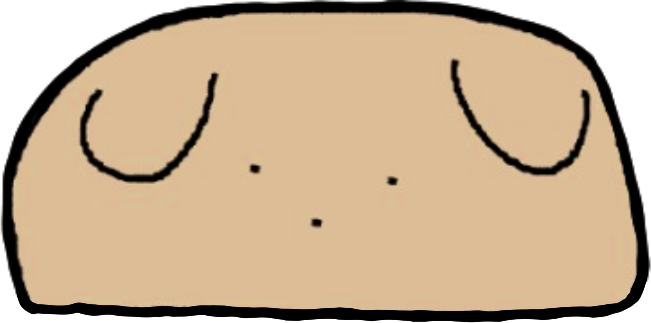
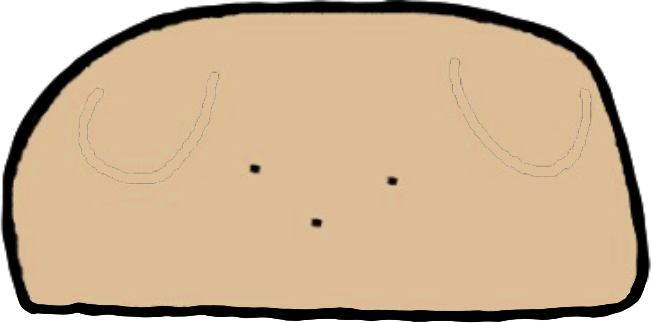
update v1786915887

Changed region(s): [[0.6759, 0.1858, 0.9217, 0.5573], [0.1229, 0.2167, 0.3379, 0.5882]]

diff --git a/mascot.py b/mascot.py
@@ -3983,10 +3983,12 @@ class Mascot:
             menu.add_command(label="시계 펼치기 / 접기", command=self._toggle_clock)
         if (self.timer_on and self.ws_path is None
                 and self.cfg.get("reset_menu", False)):
-            # 기본은 숨김 — 잘못 눌러 하루를 날리는 사고가 잦았다.
+            # 초기화는 기본 숨김 — 작업 종료의 '새로 시작'과 겹친다.
             # 필요한 캐릭터만 config 의 reset_menu 로 켠다.
             menu.add_command(label="타이머 초기화", command=self._timer_reset)
-            menu.add_command(label="초기화 되돌리기",
+        if self.timer_on and self.ws_path is None:
+            # 복구는 남긴다 — 실수로 날린 기록을 되살리는 길
+            menu.add_command(label="타이머 복구",
                              command=lambda: self._safe(
                                  "unreset", self._timer_unreset))
         menu.add_separator()
@@ -4931,13 +4933,16 @@ class Mascot:
         """타이머 카드가 차지하는 캐릭터 위 여백."""
         if not self.timer_on:
             return 0
+        # 그림 위쪽에 빈 여백이 큰 캐릭터(햄북이 86px)는 카드와 머리가
+        # 늘 그만큼 떨어진다 — 여백만큼 캐릭터를 올려 틈을 좁힌다.
+        lift = int(self.cfg.get("char_lift", 0))
         if self.has_clock:
             base = OY_CLOCK_OPEN if self.clock_open else OY_CLOCK_COMPACT
-            return (base + self._yt_bar() + GOAL_ROW
-                    + max(0, self._lv_row() - LV_TRIM))
+            return max(0, base + self._yt_bar() + GOAL_ROW
+                       + max(0, self._lv_row() - LV_TRIM) - lift)
         extra = int(self.cfg.get("card_top", 22)) - 22        # 장식 여유 (토끼 귀)
-        return (TIMER_H + extra + self._yt_bar()
-                + max(0, self._lv_row() - LV_TRIM))
+        return max(0, TIMER_H + extra + self._yt_bar()
+                   + max(0, self._lv_row() - LV_TRIM) - lift)
 
     def _bake_oy(self):
         """oy(카드 높이)에 의존하는 좌표들 — 시계 토글로 oy가 바뀌면 다시 부른다."""
@@ -12559,13 +12564,65 @@ class Mascot:
                                text=f"{self.cfg.get('name', self.char)} 설정",
                                font=(FONT, FS(12), "bold"), fill=cd["text"])
                 return y + 78
-            ec = {"cat": "#f5bdd2", "rose": "#f5bdd2"}.get(deco, "#2b2b2b")
-            for ex in (hx0 + 34, hx1 - 34):
-                if deco == "cat":
-                    cv.create_polygon(ex - 13, y + 18, ex + 2, y - 8, ex + 13, y + 17,
-                                      fill=ec, outline=cd["border"], width=2)
-                else:
-                    cv.create_oval(ex - 13, y - 8, ex + 13, y + 18, fill=ec, outline="")
+            # 캐릭터마다 제 데코를 쓴다 — 판다귀가 아닌 캐릭터에 검은 귀가
+            # 얹혀 있었다 (햄북이 제보). 타이머 카드의 _draw_deco 와 맞춘다.
+            mx = (hx0 + hx1) / 2
+            if deco == "burger":               # 햄북이: 미니 햄버거
+                cv.create_arc(mx - 26, y - 12, mx + 26, y + 26, start=0,
+                              extent=180, style="pieslice",
+                              fill="#ecbf6b", outline="#a8763e", width=2)
+                for dx2 in (-11, 0, 11):
+                    cv.create_oval(mx + dx2 - 2, y - 4 + abs(dx2) // 5,
+                                   mx + dx2 + 2, y - 1 + abs(dx2) // 5,
+                                   fill="#fdf3d9", outline="")
+                for i2 in range(6):
+                    lx = mx - 22 + i2 * 9
+                    cv.create_oval(lx - 4, y + 3, lx + 4, y + 11,
+                                   fill="#7cb956", outline="#578a35")
+                cv.create_rectangle(mx - 21, y + 8, mx + 21, y + 14,
+                                    fill="#8a5a34", outline="#6d4426")
+            elif deco == "frog":               # 프고: 개구리 눈
+                for ex2 in (mx - 24, mx + 24):
+                    cv.create_oval(ex2 - 15, y - 8, ex2 + 15, y + 16,
+                                   fill="#69a63c", outline="#49781f", width=2)
+                    cv.create_oval(ex2 - 9, y - 4, ex2 + 9, y + 12,
+                                   fill="#ffffff", outline="#49781f", width=2)
+                    cv.create_oval(ex2 - 3, y + 1, ex2 + 3, y + 8,
+                                   fill="#20261c", outline="")
+            elif deco == "sprout":             # 기뽀: 새싹
+                cv.create_line(mx, y + 18, mx, y - 2, fill="#4c8a3f", width=3)
+                for sign in (-1, 1):
+                    cv.create_polygon(mx, y - 1, mx + 9 * sign, y - 12,
+                                      mx + 16 * sign, y - 3,
+                                      mx + 7 * sign, y + 4, smooth=True,
+                                      fill="#6db54e", outline="#4c8a3f",
+                                      width=1)
+            elif deco == "ribbon":             # 사가: 리본
+                for sign in (-1, 1):
+                    cv.create_polygon(mx, y + 5, mx + 18 * sign, y - 9,
+                                      mx + 20 * sign, y + 6,
+                                      mx + 15 * sign, y + 11, smooth=True,
+                                      fill="#f9b6d2", outline="#e07aa8",
+                                      width=2)
+                cv.create_oval(mx - 5, y, mx + 5, y + 10, fill="#f9b6d2",
+                               outline="#e07aa8", width=2)
+            elif deco == "dog":                # 개: 늘어진 강아지 귀
+                for ex2 in (hx0 + 30, hx1 - 30):
+                    cv.create_oval(ex2 - 14, y - 8, ex2 + 10, y + 30,
+                                   fill="#2b2b2b", outline="")
+                    cv.create_oval(ex2 - 8, y, ex2 + 2, y + 18,
+                                   fill="#4a4a4a", outline="")
+            else:
+                ec = {"cat": "#f5bdd2", "rose": "#f5bdd2"}.get(deco, "#2b2b2b")
+                for ex in (hx0 + 34, hx1 - 34):
+                    if deco == "cat":
+                        cv.create_polygon(ex - 13, y + 18, ex + 2, y - 8,
+                                          ex + 13, y + 17,
+                                          fill=ec, outline=cd["border"],
+                                          width=2)
+                    else:
+                        cv.create_oval(ex - 13, y - 8, ex + 13, y + 18,
+                                       fill=ec, outline="")
             rrect(hx0, y + 10, hx1, y + 62, 18, fill=SOFT,
                   outline=cd["border"], width=2)
             cv.create_text(W / 2, y + 36, text=f"{self.cfg.get('name', self.char)} 설정",
